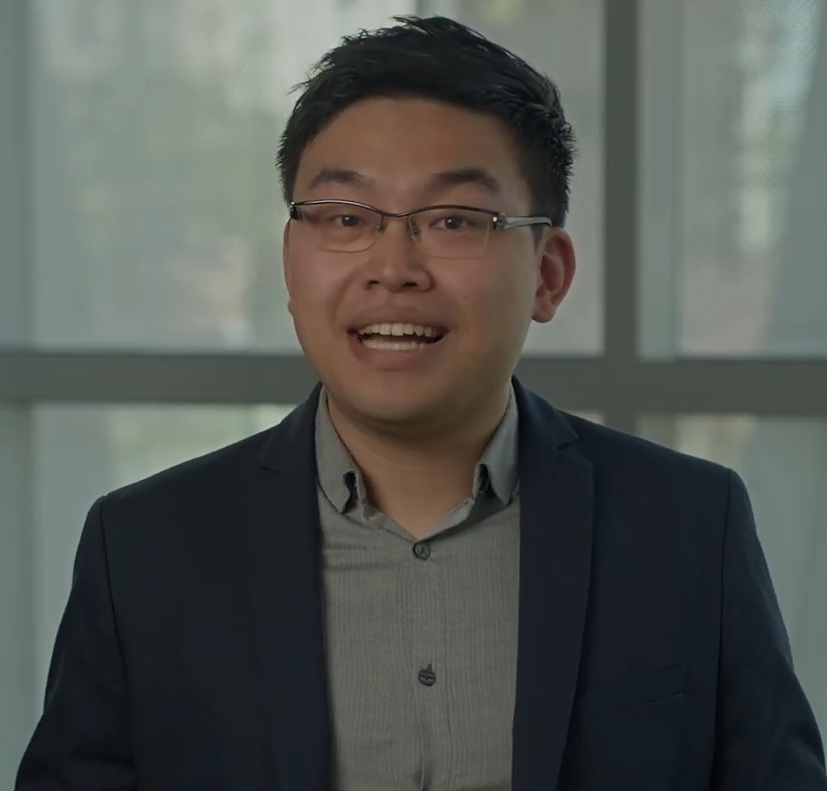
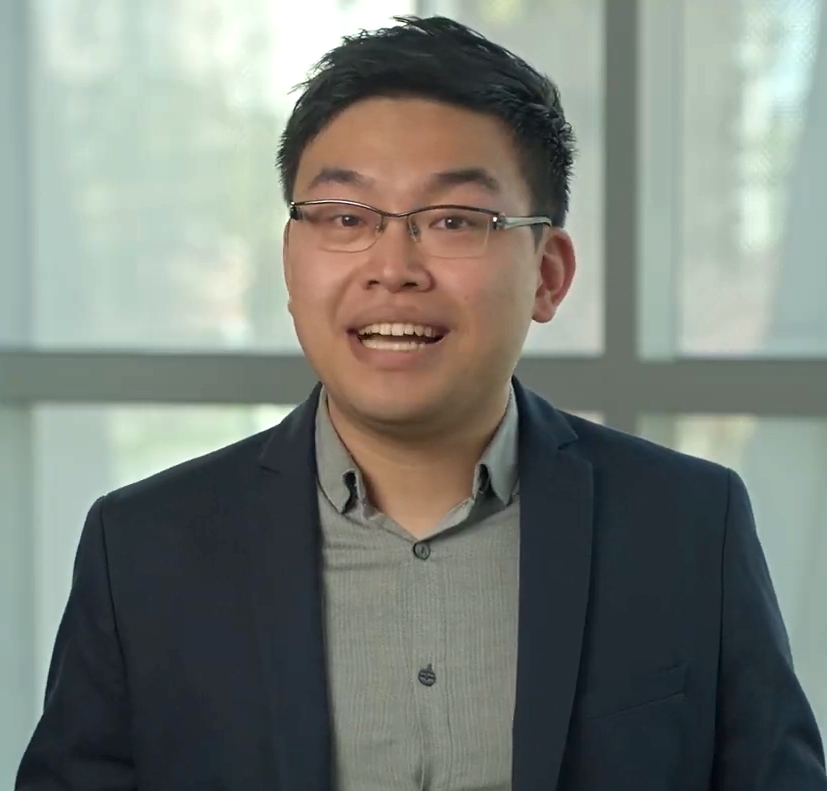
.

diff --git a/index.md b/index.md
@@ -8,7 +8,7 @@ title: Home
 
 <div id="twocolleft">
     <!-- your picture should not exceed a width of 240px, preferably 239px, otherwise internet explorer 8 (and maybe other version) does not disply the website correctly-->
-    <img id="portrait" src="assets/images/portrait.jpg">
+    <img id="portrait" src="assets/images/portrait.png">
     <!-- <div id="contact">Phone: +44 (0)20 7955 1111</div> -->
     <div id="contact"><i class="fa fa-envelope"></i>: <span style="font-size:12px;">gromit.y.chan(at)gmail(dot)com</span></div>
     <div id="contact"><i class="fa fa-twitter"></i>: <a href="https://twitter.com/GromitC">GromitC</a> <i class="fa fa-graduation-cap"></i>: <a href="https://scholar.google.com/citations?user=t7tR7O0AAAAJ">Google Scholar</a></div>
